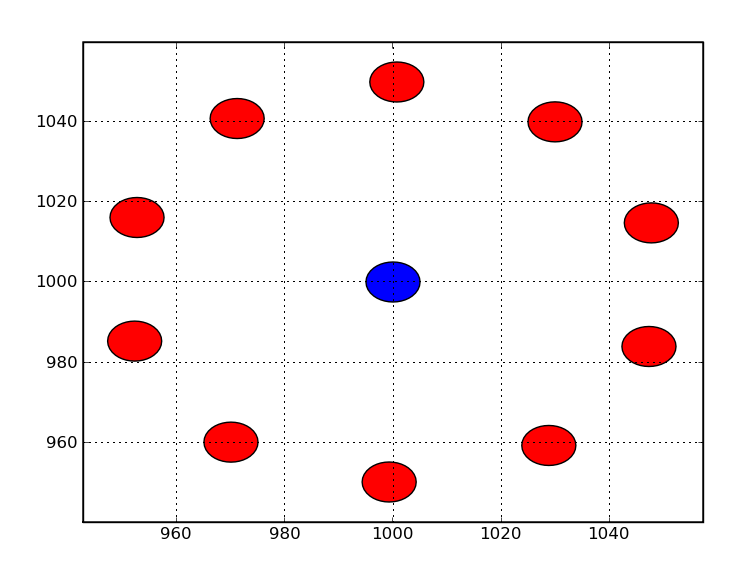
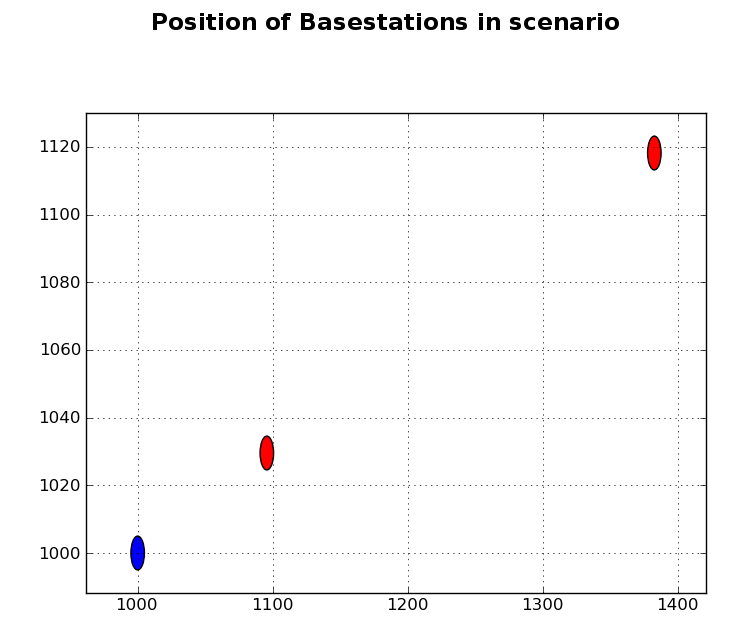
changes to pass external openwns version

diff --git a/usersGuide/framework/scenario/Single_Cell_Scenario.rst b/usersGuide/framework/scenario/Single_Cell_Scenario.rst
@@ -1,11 +1,40 @@
-#####################
-Single Cell Scenarios
-#####################
-
-We start this chapter with an example for a single cell scenario, in which one central base station and 10 user terminals are defined.
+#############################
+Pytree and a simple Scenarios
+#############################
 
 
-Part of ``config.py`` under directory ``tests/system/LTER8Compliance-Tests/`` is presented as follows:
+============================
+Use pytree to show scenarios
+============================
+
+OpenWNS provides a tool named ``pytree`` to show the created scenarios and its parameters without starting simulation.
+To use ``pytree`` to open a config file, for example: ``~/myOpenWNS/tests/system/wimac-tests/configOFDMA/configMulticell.py``, you should goto your test directoty ``~/myOpenWNS/tests/system/wimac-tests/configOFDMA`` and run the following command:
+
+.. code-block:: bash
+
+   $ ~/myOpenWNS/bin/pytree.py configMulticell.py
+
+After that, a visualised program will be started.
+
+.. _figure-scenarios-pytree:
+
+.. figure:: images/pytree.*
+   :align: center
+
+   view of pytree
+
+Expand ``configMulticell.py`` at left side of this window and find ``secnario``. Click it and scroll down the right part of this window, you can find the view of positions of all the nodes created by this config file (blue points are base stations and red are user terminals).
+
+
+=====================
+A simple Scenarios
+=====================
+
+
+We start this chapter with an example of a single cell scenario, in which one central base station and 10 user terminals are defined.
+
+
+Part of ``configSingleCell.py`` under directory ``myOpenWNS/tests/system/wimac-tests/configOFDMA/`` is presented as follows:
 
 .. code-block:: python
 
@@ -15,40 +44,18 @@ Part of ``config.py`` under directory ``tests/system/LTER8Compliance-Tests/`` is
    import scenarios.traffic
    import winprost.qos
 
-   mode = "ltefdd1p4"
-   bsPlacer = scenarios.placer.HexagonalPlacer(numberOfCircles = 0, interSiteDistance = 100.0, rotate=0.3)
-   uePlacer = scenarios.placer.CircularPlacer(numberOfNodes = 10, radius = 50.0, rotate=0.3)
-   bsAntenna = scenarios.antenna.IsotropicAntennaCreator([0.0, 0.0, 25.0])
-   channelmodelcreator = winprost.support.WINNER.Propagation.C2NLOSChannelChannelModelCreator()
-   scenario = scenarios.builders.CreatorPlacerBuilder(
-                  nodecreators.LTEBSCreator(mode=mode, useHARQ=True), 
-                  bsPlacer, bsAntenna, 
-                  nodecreators.LTEUECreator(mode=mode, useHARQ=True), 
-                  uePlacer,channelmodelcreator)
+   # Create and place the nodes:
+   # One BS (25m omnidirectional antenna height) with two nodes, one near, one far
 
+   bsPlacer = scenarios.placer.HexagonalPlacer(numberOfCircles = 0, interSiteDistance = 100.0, rotate=0.0)
+   uePlacer = scenarios.placer.LinearPlacer(numberOfNodes = 2, positionsList = [100, 400], rotate=0.3)
+   bsAntenna = scenarios.antenna.IsotropicAntennaCreator([0.0, 0.0, 5.0])
+   bsCreator = wimac.support.nodecreators.WiMAXBSCreator(stationIDs, Config)
+   ueCreator = wimac.support.nodecreators.WiMAXUECreator(stationIDs, Config)
+   channelmodelcreator = wimac.support.helper.TestChannelModelCreator()
+   scenario = scenarios.builders.CreatorPlacerBuilder(bsCreator, bsPlacer, bsAntenna, 
+                                                   ueCreator, uePlacer, channelmodelcreator)
 
-   import openwns.simulator
-
-   openwns.simulator.getSimulator().maxSimTime = 0.2
-   openwns.simulator.getSimulator().outputStrategy = openwns.simulator.OutputStrategy.DELETE
-
-   class MyBinding:
-
-       def __init__(self, qosClass = openwns.qos.undefinedQosClass):
-           self.qosClass = qosClass
-
-       def create(self, ue):
-           rang = openwns.simulator.getSimulator().simulationModel.getNodesByProperty("Type", "RANG")[0]
-           import constanze.node
-           return constanze.node.TCPClientBinding(
-                       ue.nl.domainName,
-                       rang.nl.domainName,
-                       1024,
-                       parentLogger = ue.logger,
-                       qosClass = self.qosClass)
-
-   scenarios.traffic.addTraffic(MyBinding(qosClass = winprost.qos.conversationalQosClass),
-                               scenarios.traffic.CBR(offset = 0.05, trafficRate = 6.0e3, packetSize = 1500*8) )
 
 The scenario built by this configuration is shown as below.
 
@@ -59,7 +66,6 @@ The scenario built by this configuration is shown as below.
 
    Station positions within this single cell
 
-'The figure can be created by running ``bin/pytree config.py``. Under ``scenarios`` of pytree you can find the visualized scenarios and the cooresponding scenario parameters collected from the configuration file.
 
 =============================
 Explanation of configurations
@@ -78,72 +84,30 @@ This part imports necessary files for scenario configuration.
 
 .. code-block:: python
 
-   bsPlacer = scenarios.placer.HexagonalPlacer(numberOfCircles = 0, interSiteDistance = 100.0, rotate=0.3)
-   uePlacer = scenarios.placer.CircularPlacer(numberOfNodes = 10, radius = 50.0, rotate=0.3)
+   bsPlacer = scenarios.placer.HexagonalPlacer(numberOfCircles = 0, interSiteDistance = 100.0, rotate=0.0)
+   uePlacer = scenarios.placer.LinearPlacer(numberOfNodes = 2, positionsList = [100, 400], rotate=0.3)
 
 ``bsPlacer`` saves the locations of all base stations in a scenario, which is generated by ``scenarios.placer.HexagonalPlacer``. Since this is a single cell scenario, the numberOfCircles is set to 0.
-``uePlacer`` saves the locations of all user terminals within each cell in this scenario, which is generated by ``scenarios.placer.CircularPlacer``. Here ``uePlacer`` uses a circular placer with a radius of 50 and numberOfNodes of 10. As shown in the figure above, this circular placer places 10 user terminals average at the edge of a circle with radius of 50 meters.
+``uePlacer`` saves the locations of all user terminals within each cell in this scenario, which is generated by ``scenarios.placer.LinearPlacer``. Here ``uePlacer`` uses a linear placer with 2 nodes at position 100 and 400. .
 
 .. code-block:: python
 
-   bsAntenna = scenarios.antenna.IsotropicAntennaCreator([0.0, 0.0, 25.0])
-   channelmodelcreator = winprost.support.WINNER.Propagation.C2NLOSChannelChannelModelCreator()
+   bsAntenna = scenarios.antenna.IsotropicAntennaCreator([0.0, 0.0, 5.0])
+   channelmodelcreator = wimac.support.helper.TestChannelModelCreator()
 
-These two code lines define the antenna model and channel model respectively. The channel model uses NLOS channel model.
+These two code lines define the antenna model and channel model respectively. The channel model uses a predefined test channel model.
 
 .. code-block:: python
 
-   scenario = scenarios.builders.CreatorPlacerBuilder(
-                  nodecreators.LTEBSCreator(mode=mode, useHARQ=True), 
-                  bsPlacer, bsAntenna, 
-                  nodecreators.LTEUECreator(mode=mode, useHARQ=True), 
-                  uePlacer,channelmodelcreator)
+   bsCreator = wimac.support.nodecreators.WiMAXBSCreator(stationIDs, Config)
+   ueCreator = wimac.support.nodecreators.WiMAXUECreator(stationIDs, Config)
+
+``bsCreator`` creats base stations and ``ueCreator`` creats user terminal as well. 
+
+.. code-block:: python
+
+   scenario = scenarios.builders.CreatorPlacerBuilder(bsCreator, bsPlacer, bsAntenna, 
+                                                   ueCreator, uePlacer, channelmodelcreator)
 
 Now all the parameters introduced above will be combined and set up in the Creator Placer Builder.
-
-Through calling the CreatorPlacerBuilder, two nodecreator are also called, namely the ``nodecreators.LTEBSCreator(mode=mode, useHARQ=True)`` for base station and the ``nodecreators.LTEUECreator(mode=mode, useHARQ=True)`` for user terminal. The source codes of both node creators are defined in file ``nodecreators.py`` under the directory ``tests/system/LTER8Compliance-Tests/``, in which the properties of each type of nodes are defined.
-
-.. code-block:: python
-
-   class MyBinding:
-
-       def __init__(self, qosClass = openwns.qos.undefinedQosClass):
-           self.qosClass = qosClass
-
-       def create(self, ue):
-           rang = openwns.simulator.getSimulator().simulationModel.getNodesByProperty("Type", "RANG")[0]
-           import constanze.node
-           return constanze.node.TCPClientBinding(
-                       ue.nl.domainName,    # source node domain name
-                       rang.nl.domainName,   # destination node domain name
-                       1024,                 # port of traffic
-                       parentLogger = ue.logger,
-                       qosClass = self.qosClass)
-
-   scenarios.traffic.addTraffic(MyBinding(qosClass = winprost.qos.conversationalQosClass),
-                               scenarios.traffic.CBR(offset = 0.05, trafficRate = 6.0e3, packetSize = 1500*8) )
-
-This part of codes set up the traffic model, in which the source node ``ue.nl.domainName`` sends packets to the destination node ``rang.nl.domainName`` with a packet length of 1500*8 bits, traffic rate of 6000 bps and traffic type of CBR. This traffic starts at the simulation time of 0.05 (offset) second.
-
-============================
-Use pytree to show scenasios
-============================
-
-OpenWNS provides a tool named ``pytree`` to show the created scenarios and its parameters without starting simulation.
-To use ``pytree`` to open a config file, for example: ``tests/system/LTER8Compliance-Tests/configMulticell.py``, you should goto your test directoty ``tests/system/LTER8Compliance-Tests`` and run the following command:
-
-.. code-block:: bash
-
-   $ ../../../bin/pytree.py configMulticell.py
-
-After that, a visualised program will be started.
-
-.. _figure-scenarios-pytree:
-
-.. figure:: images/pytree.*
-   :align: center
-
-   view of pytree
-
-Expand ``configMulticell.py`` at left side of this window and find ``secnario``. Click it and scroll down the right part of this window, you can find the view of positions of all the nodes created by this config file.
 

diff --git a/usersGuide/framework/scenario/IMT-A_Channel_Model_calibration.rst b/usersGuide/framework/scenario/IMT-A_Channel_Model_calibration.rst
@@ -17,14 +17,12 @@ Then use following command to start Wrowser.
 
 .. code-block:: bash
 
-   $ openwns-wrowser: bin/wrowser
-   Local installation of wrowser found.
-   Prepending /home/yxn/working/openwns/openwns-wrowser to sys.path
+   $ openwns-wrowser: wrowser
 
 After wrowser started, ``sandbox path`` needs to be set up for wrowser first.
-Go to ``Extra`` menu of wrowser and open ``Preferences``. Find ``Sandbox`` tab and fill in ``Sandboxpath`` with your sandbox path like ``MY-OPENWNS/sandbox``. Then click ``OK`` to save and close this Dialog window. 
+Go to ``Extra`` menu of wrowser and open ``Preferences``. Find ``Sandbox`` tab and fill in ``Sandboxpath`` with your sandbox path like ``myOpenWNS/sandbox``. Then click ``OK`` to save and close this Dialog window. 
 
-Then goto ''File'' menu and start ''View Scenario''. In the open window find the config file. Here we use ``MY-OPENWNS/tests/system/OFDMAScanner-Tests--main--1.0/configITUInH.py`` as an example. This is an Indoor Hotspot scenario with 2 base stations.
+Then goto ''File'' menu and start ''View Scenario''. In the open window find the config file. Here we use ``~/myOpenWNS/tests/system/ofdma-tests/configITUInH.py`` as an example. This is an Indoor Hotspot scenario with 2 base stations.
 
 As show in the figure:
 
@@ -54,7 +52,7 @@ Example of OFDMA Scanner test of ITU UMa scenario
 =================================================
 
 
-Now ``configITUUMa.py`` in ``tests/system/OFDMAScanner-Tests--main--1.0`` will be taken as example.
+Now ``configITUUMa.py`` in ``~/myOpenWNS/tests/system/ofdma-tests/`` will be taken as example.
 
 .. code-block:: python
 
@@ -63,7 +61,7 @@ Now ``configITUUMa.py`` in ``tests/system/OFDMAScanner-Tests--main--1.0`` will b
    #UE Creator
    self.scanner = ofdmaphy.Station.Scanner(self, "UE" + str(self.nodeID), [ofdmaphy.Receiver.ReceiverDropIn()],  centerFrequency)
 
-The codes above are from ``nocecreators.py`` of ``OFDMAScanner-Tests--main--1.0``. In ``OFDMAScanner-Tests--main--1.0``, ``ofdmaphy.Station.Sender`` is used as base station and ``ofdmaphy.Station.Scanner`` as user terminal.
+The codes above are from ``nocecreators.py`` in ``~/myOpenWNS/tests/system/ofdma-tests/``. Here ``ofdmaphy.Station.Sender`` is used as base station and ``ofdmaphy.Station.Scanner`` as user terminal.
 
 .. code-block:: python
 
@@ -118,7 +116,7 @@ The codes above are from ``nocecreators.py`` of ``OFDMAScanner-Tests--main--1.0`
        return True
 
 
-In the codes presented above, ``scenarios.builders.CreatorPlacerBuilderUrbanMacro`` is used as creator placer builder. ``scenarios.builders.CreatorPlacerBuilderUrbanMacro`` is a child class of ``scenarios.builders.CreatorPlacerBuilder`` which is used in last chapter. Most parameters are pre-configurated according to Urban Macro (UMa) scenario model. In this scenario base station uses sectorization. We have 1 circles of base station and 0 user terminal.
+In the codes presented above, ``scenarios.builders.CreatorPlacerBuilderUrbanMacro`` is used as creator placer builder. ``scenarios.builders.CreatorPlacerBuilderUrbanMacro`` is a child class of ``scenarios.builders.CreatorPlacerBuilder`` which is used in last chapter. Most parameters are pre-configurated according to Urban Macro (UMa) scenario model. In this scenario base station uses sectorization.  One circles of base stations(totally 7 base stations: 1 in the mittle and 6 around it with a hexagonal form) and 0 user terminal, as shown below.
 
 .. _figure-scenarios-IMT-A-UMa:
 
@@ -127,5 +125,5 @@ In the codes presented above, ``scenarios.builders.CreatorPlacerBuilderUrbanMacr
 
    Station positions of a Urban Macro scenario
 
-Other pre-configurated creator placer builder of ITM-A scenarios can be found under 'framework/scenarios/PyConfig/scenarios/ituM2135'. 
+Other pre-configurated creator placer builders of ITM-A scenarios can be found under 'framework/scenarios/PyConfig/scenarios/ituM2135'.
 

diff --git a/usersGuide/framework/scenario/IMT-A_WiMAX_Scenario.rst b/usersGuide/framework/scenario/IMT-A_WiMAX_Scenario.rst
@@ -2,7 +2,7 @@
 IMT-A WiMAX scenario
 ####################
 
-In this chapter, some predifined functions are introduced.
+In this chapter, some parameter of ``CreatorPlacerBuilder`` and predifined functions are introduced.
 
 ================================
 Introduction of other parameters
@@ -26,7 +26,15 @@ Introduction of other parameters
    ...
    ...
 
-The codes listed above are part of ``MY-OPENWNS/tests/system/WiMAC-Tests--main--1.2/configIMTA/configUMa.py``. In this test, ``wimac.support.nodecreators.WiMAXBSCreator`` is used to create base stations and ``wimac.support.nodecreators.WiMAXUECreator`` user terminals. The predefined creator placer for Urban Macro scenario is used to create a Urban Macro scenario package. This package can be found at ``MY-OPENWNS/framework/scenarios/PyConfig/scenarios/builders/creatorplacer.py``, as shown below.
+The codes listed above are part of ``myOpenWNS/tests/system/wimac-tests/configIMTA/configUMa.py``. In this test, ``wimac.support.nodecreators.WiMAXBSCreator`` is used to create base stations and ``wimac.support.nodecreators.WiMAXUECreator`` user terminals.
+
+.. code-block:: python
+
+       sectorization = True
+
+If ``sectorization`` is set to ``True``, sectorized antenna is used. Every antenna has 3 directions. In OPENWNS, when one base station uses sectorized antenna, three base stations are created in one position. Every base station has one antenna, which covers 120 degrees in one direction. All these three base stations are treated as one in simulation.
+
+The predefined creator for Urban Macro scenario is used to create a Urban Macro scenario package. This package can be found at ``myOpenWNS/framework/scenarios/PyConfig/scenarios/builders/creatorplacer.py``, as shown below.
 
 .. code-block:: python
 
@@ -44,11 +52,7 @@ The codes listed above are part of ``MY-OPENWNS/tests/system/WiMAC-Tests--main--
 
 In this package, several predifened ituM2135 Urban Macro parameters are used to setup a scenario for Urban Macro enrivoment.
 
-=================================================================
-Show the positions of base stations and user terminal with pytree
-=================================================================
-
-In ITU scenario packages, user terminals are randomized placed around base station. Here we use the ``HexagonalPlacer`` as a base station placer and ``HexagonalAreaPlacer`` as a user terminal placer for Urban Micro, Urban Macro, Rural Macro and Suburban Macro scenarios; use ``LinearPlacer`` as base station placer and ``RectangularAreaPlacer`` as user terminal placer for Indoor Hotspot scenarios. All these functions are defined in ``MY-OPENWNS/framework/scenarios/PyConfig/scenarios/placer/``. All ``AreaPlacer`` are randomized placer.
+In ITU scenario packages, user terminals are randomized placed around base station. Here the ``HexagonalPlacer`` is used as a base station placer and ``HexagonalAreaPlacer`` as a user terminal placer for Urban Micro, Urban Macro, Rural Macro and Suburban Macro scenarios; use ``LinearPlacer`` as base station placer and ``RectangularAreaPlacer`` as user terminal placer for Indoor Hotspot scenarios. All these functions are defined in ``myOpenWNS/framework/scenarios/PyConfig/scenarios/placer/``. All ``AreaPlacer`` are randomized placer.
 
 .. code-block:: python
    

diff --git a/usersGuide/framework/scenario/Introduction.rst b/usersGuide/framework/scenario/Introduction.rst
@@ -1,0 +1,7 @@
+############
+Introduction
+############
+
+To follow the steps in this tutorial, it is assumed that the openWNS and the openWNS Wrowser are installed as descibed in the chapter :ref:`gettingStarted`. It is also assumed that the openWNS source doce is situated in the directory ``myOpenWNS``.
+
+

diff --git a/usersGuide/framework/scenario/scenario.rst b/usersGuide/framework/scenario/scenario.rst
@@ -7,7 +7,8 @@ Scenario Builder Tutorial
 .. toctree::
    :maxdepth: 1
    :glob:
-
+    
+   Introduction
    Single_Cell_Scenario
    IMT-A_Channel_Model_calibration
    IMT-A_WiMAX_Scenario
